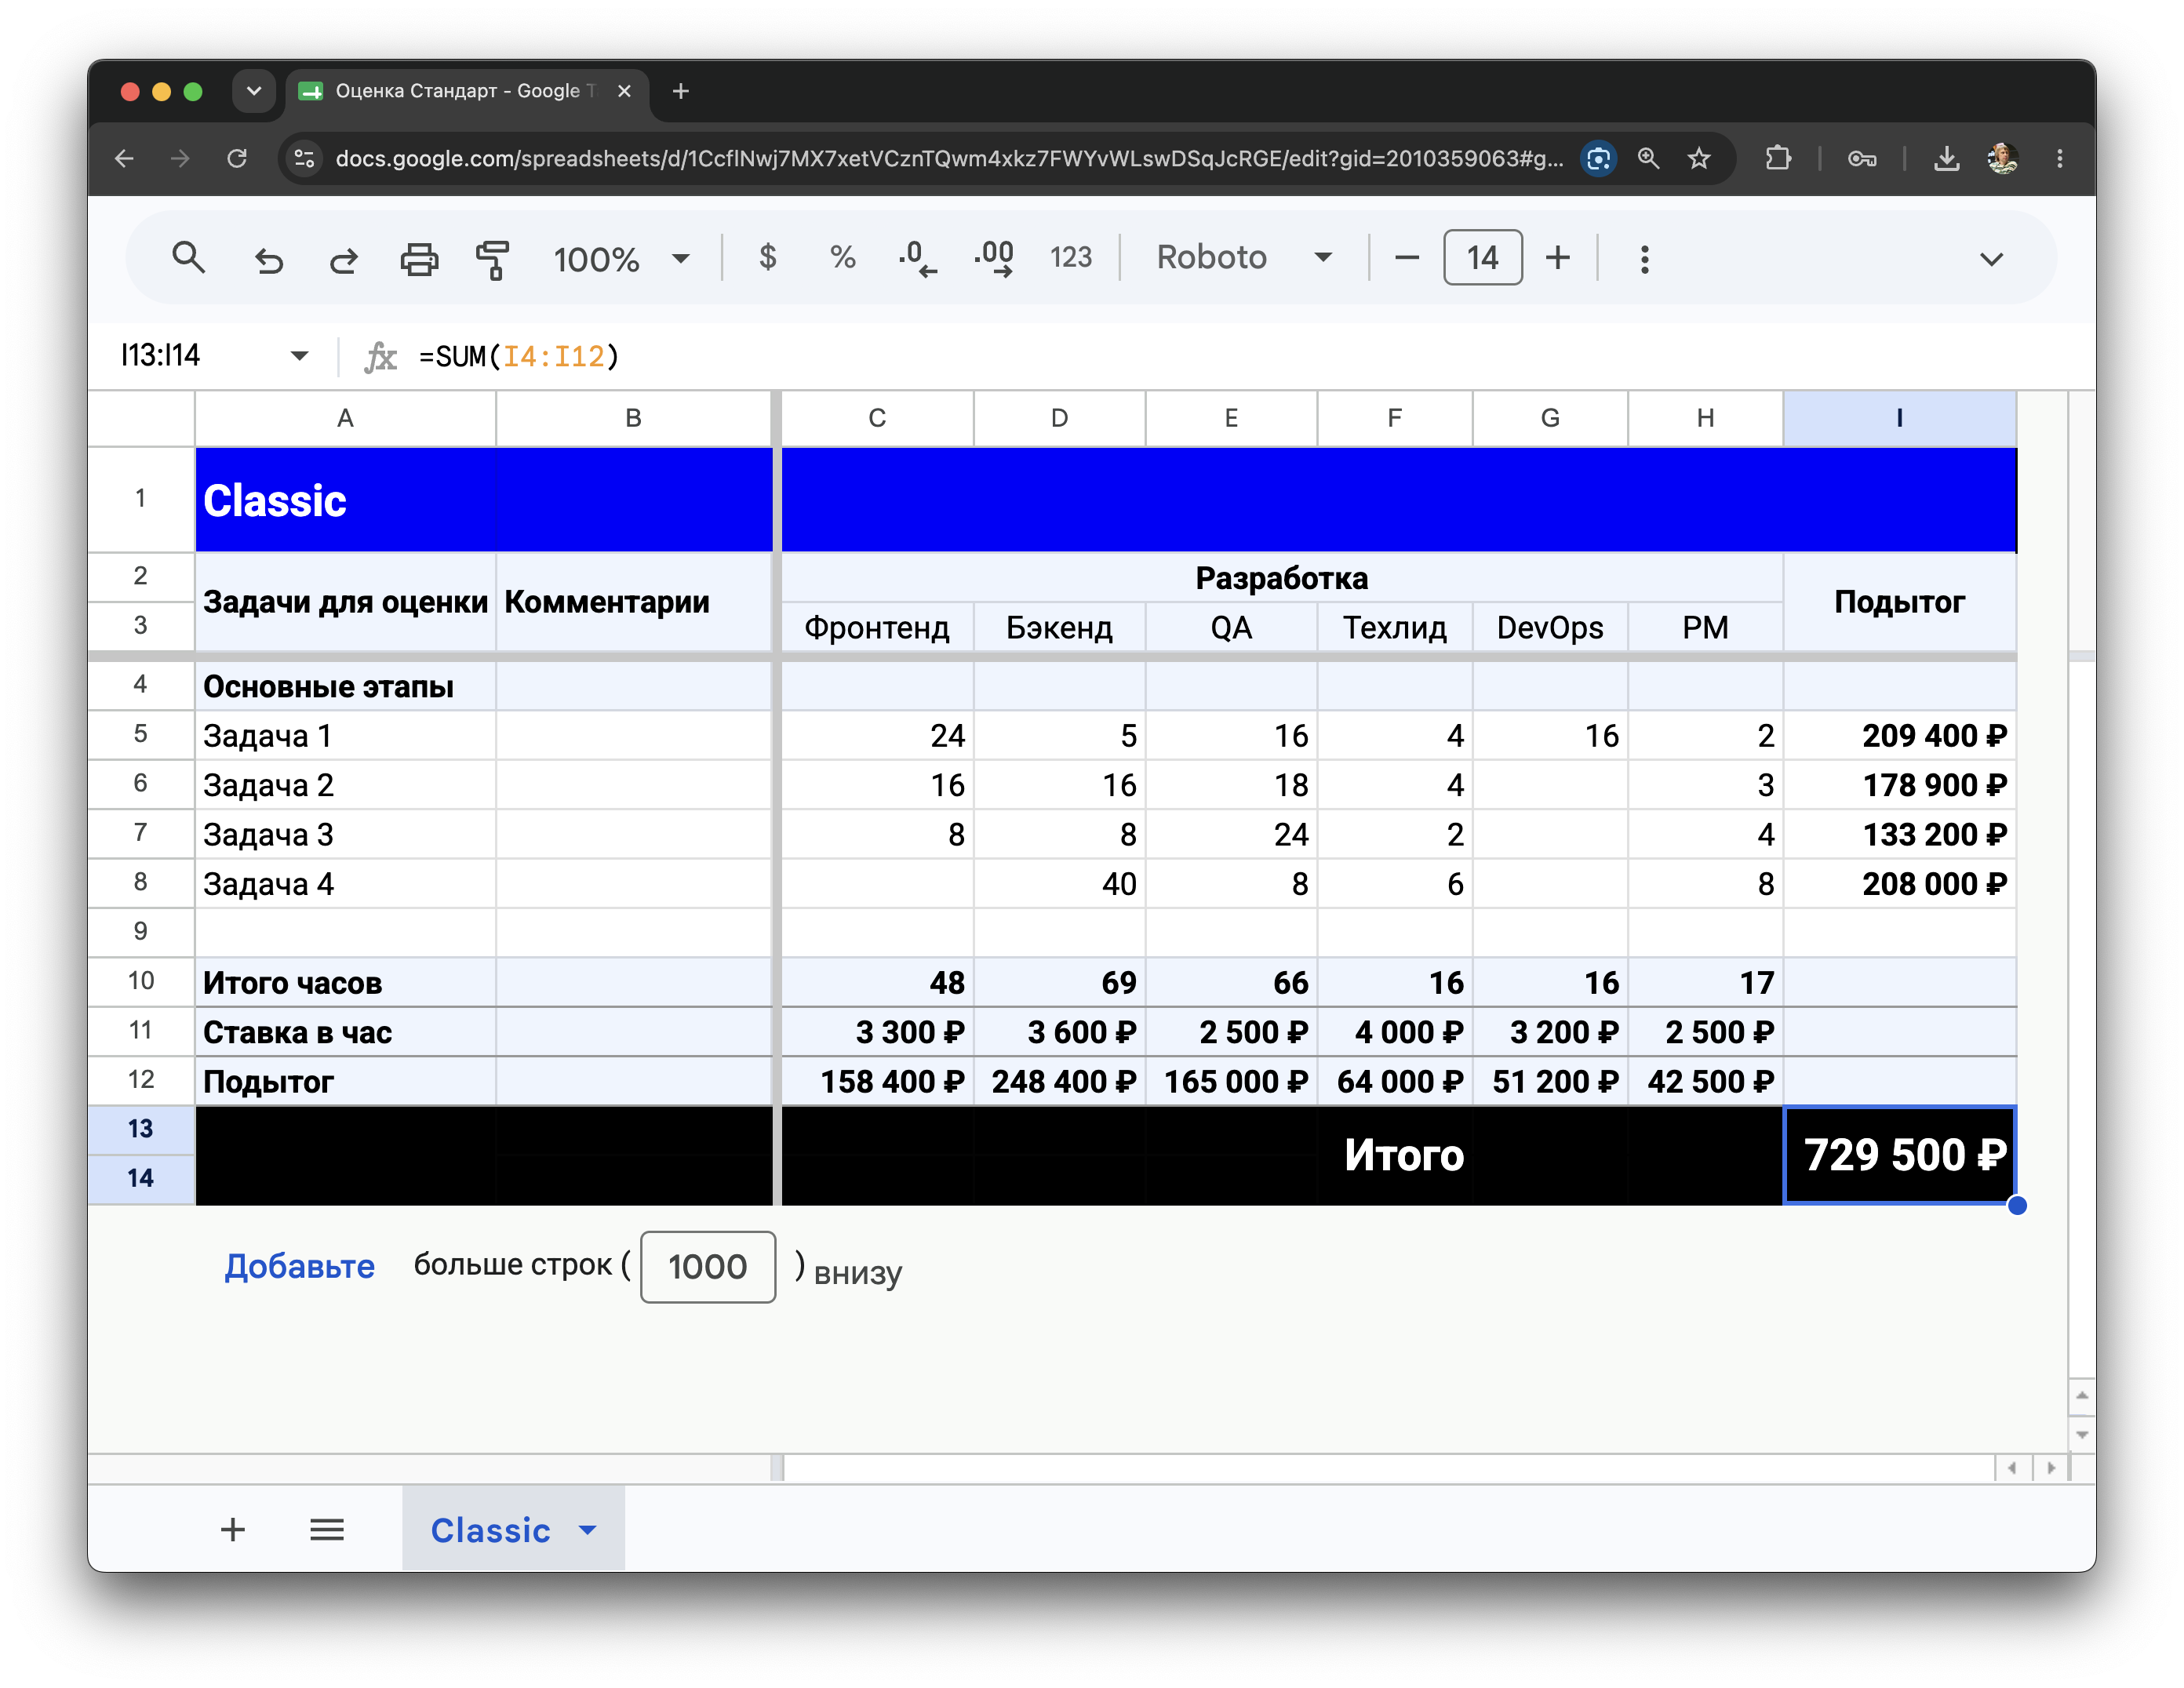
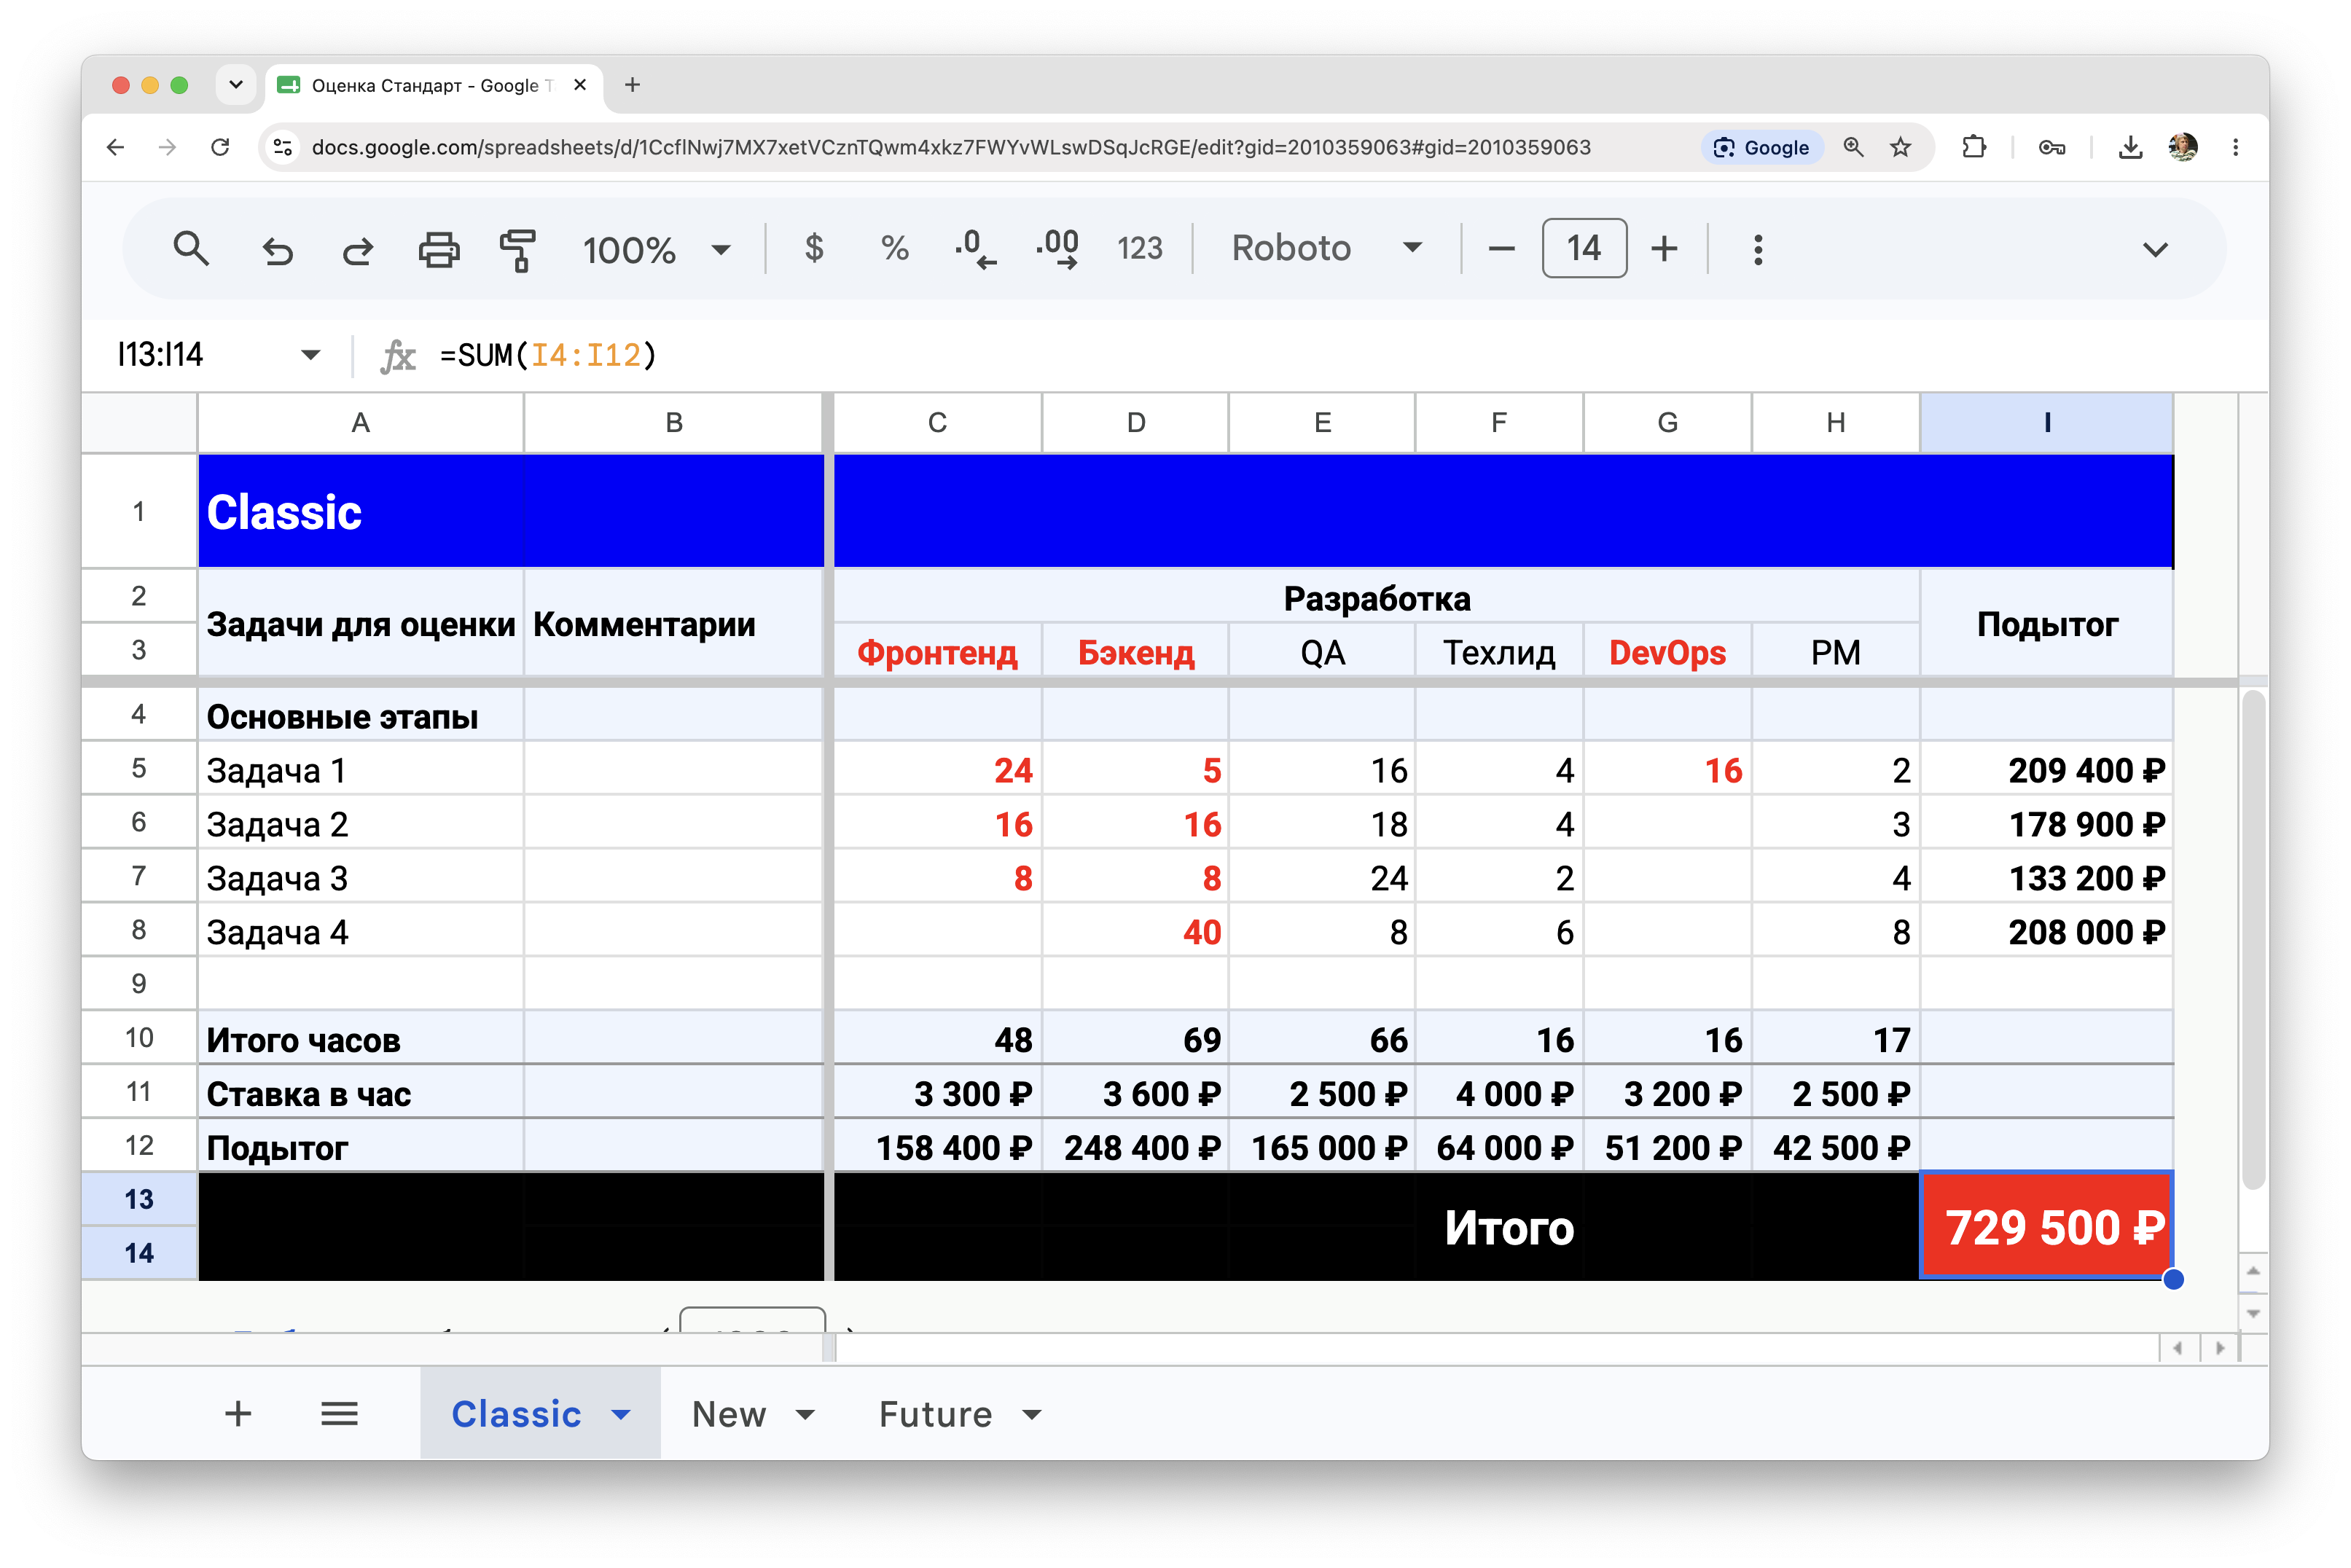
feat: update

diff --git a/index.html b/index.html
@@ -234,18 +234,26 @@
       <img class="cover h" src="pictures/classic.png" alt="" />
     </section>
 
+    <!-- <section class="slide">
+      <h2 class="shout" style="font-size: 500%;">📉</h2>
+    </section> -->
+
     <section class="slide">
-      <h2 class="shout">📉</h2>
+      <img class="cover h" src="pictures/decrease.png" alt="" />
     </section>
 
     <!-- Кто-то делает в два раза дешевле -->
     <section class="slide">
-      <h2 class="shout">Кто-то делает в два раза дешевле</h2>
+      <h2 class="shout">Кто-то делает дешевле</h2>
     </section>
 
     <!-- переделать -->
     <section class="slide">
       <img class="cover h" src="pictures/new.png" alt="" />
+    </section>
+
+    <section class="slide">
+      <img class="cover w" src="pictures/stack-overflow.png" alt="" style="width: 90%;" />
     </section>
 
     <section class="slide">
@@ -264,7 +272,7 @@
     <!-- Блок 4. Кейс с дизайнером: Паника нарастает -->
 
     <section class="slide">
-      <h2 class="shout">Лёх, я вчера сделал нам свою джиру</h2>
+      <h2 class="shout">Лёх, я вчера сделал джиру</h2>
     </section>
 
     <section class="slide">
@@ -272,15 +280,11 @@
     </section>
 
     <section class="slide">
-      <h2 class="shout">Он даже не программист</h2>
+      <h2 class="shout">Он не программист</h2>
     </section>
 
     <section class="slide">
       <img class="cover h" src="pictures/strophe.png" alt="" />
-    </section>
-
-    <section class="slide">
-      <img class="cover w" src="pictures/stack-overflow.png" alt="" style="width: 90%;" />
     </section>
 
     <!-- прослойка между Figma и браузером -->
@@ -341,7 +345,7 @@
     </section>
 
     <section class="slide">
-      <h2 class="shout">2013</h2>
+      <h2 class="shout">2013 год</h2>
     </section>
 
     <section class="slide">
@@ -349,7 +353,7 @@
     </section>
 
     <section class="slide">
-      <h2 class="shout">2016</h2>
+      <h2 class="shout">2016 год</h2>
     </section>
 
     <section class="slide">
@@ -357,7 +361,7 @@
     </section>
 
     <section class="slide">
-      <h2 class="shout">2019</h2>
+      <h2 class="shout">2019 год</h2>
     </section>
 
     <section class="slide">
@@ -373,15 +377,15 @@
     </section>
 
     <section class="slide">
-      <h2 class="shout brand">2026:<br>Новый вебмастер</h2>
+      <h2 class="shout brand">2026 год:<br>Новый вебмастер</h2>
     </section>
 
     <section class="slide">
-      <h2 class="shout brand">Вайб-кодер</h2>
+      <h2 class="shout">Вайб-кодер?</h2>
     </section>
 
     <section class="slide">
-      <h2 class="shout brand">2026:<br>Agentic Dev</h2>
+      <h2 class="shout brand">Agentic Dev</h2>
     </section>
 
     <section class="slide">
@@ -409,8 +413,16 @@
     </section>
 
     <section class="slide">
+      <img class="cover h" src="pictures/tdd-cycle.png" alt="" />
+    </section>
+
+    <section class="slide">
       <img class="cover h" src="pictures/symphony.png" alt="" />
     </section>
+
+    <!-- <section class="slide">
+      <img class="cover w" src="pictures/hirehi.png" alt="" />
+    </section> -->
 
     <section class="slide">
       <img class="cover h" src="pictures/assembly.png" alt="" />
@@ -425,7 +437,7 @@
     </section>
 
     <section class="slide">
-      <h2 class="shout">Архитектура важнее синтаксиса</h2>
+      <h2 class="shout" style="font-size: 4.4em;">Архитектура важнее синтаксиса</h2>
     </section>
 
     <section class="slide">
@@ -450,7 +462,7 @@
     </section>
 
     <section class="slide">
-      <h2 class="shout brand">Старый фронтендер нерентабелен</h2>
+      <h2 class="shout brand" style="font-size: 4.3em;">Старый фронтендер нерентабелен</h2>
     </section>
 
     <section class="slide">